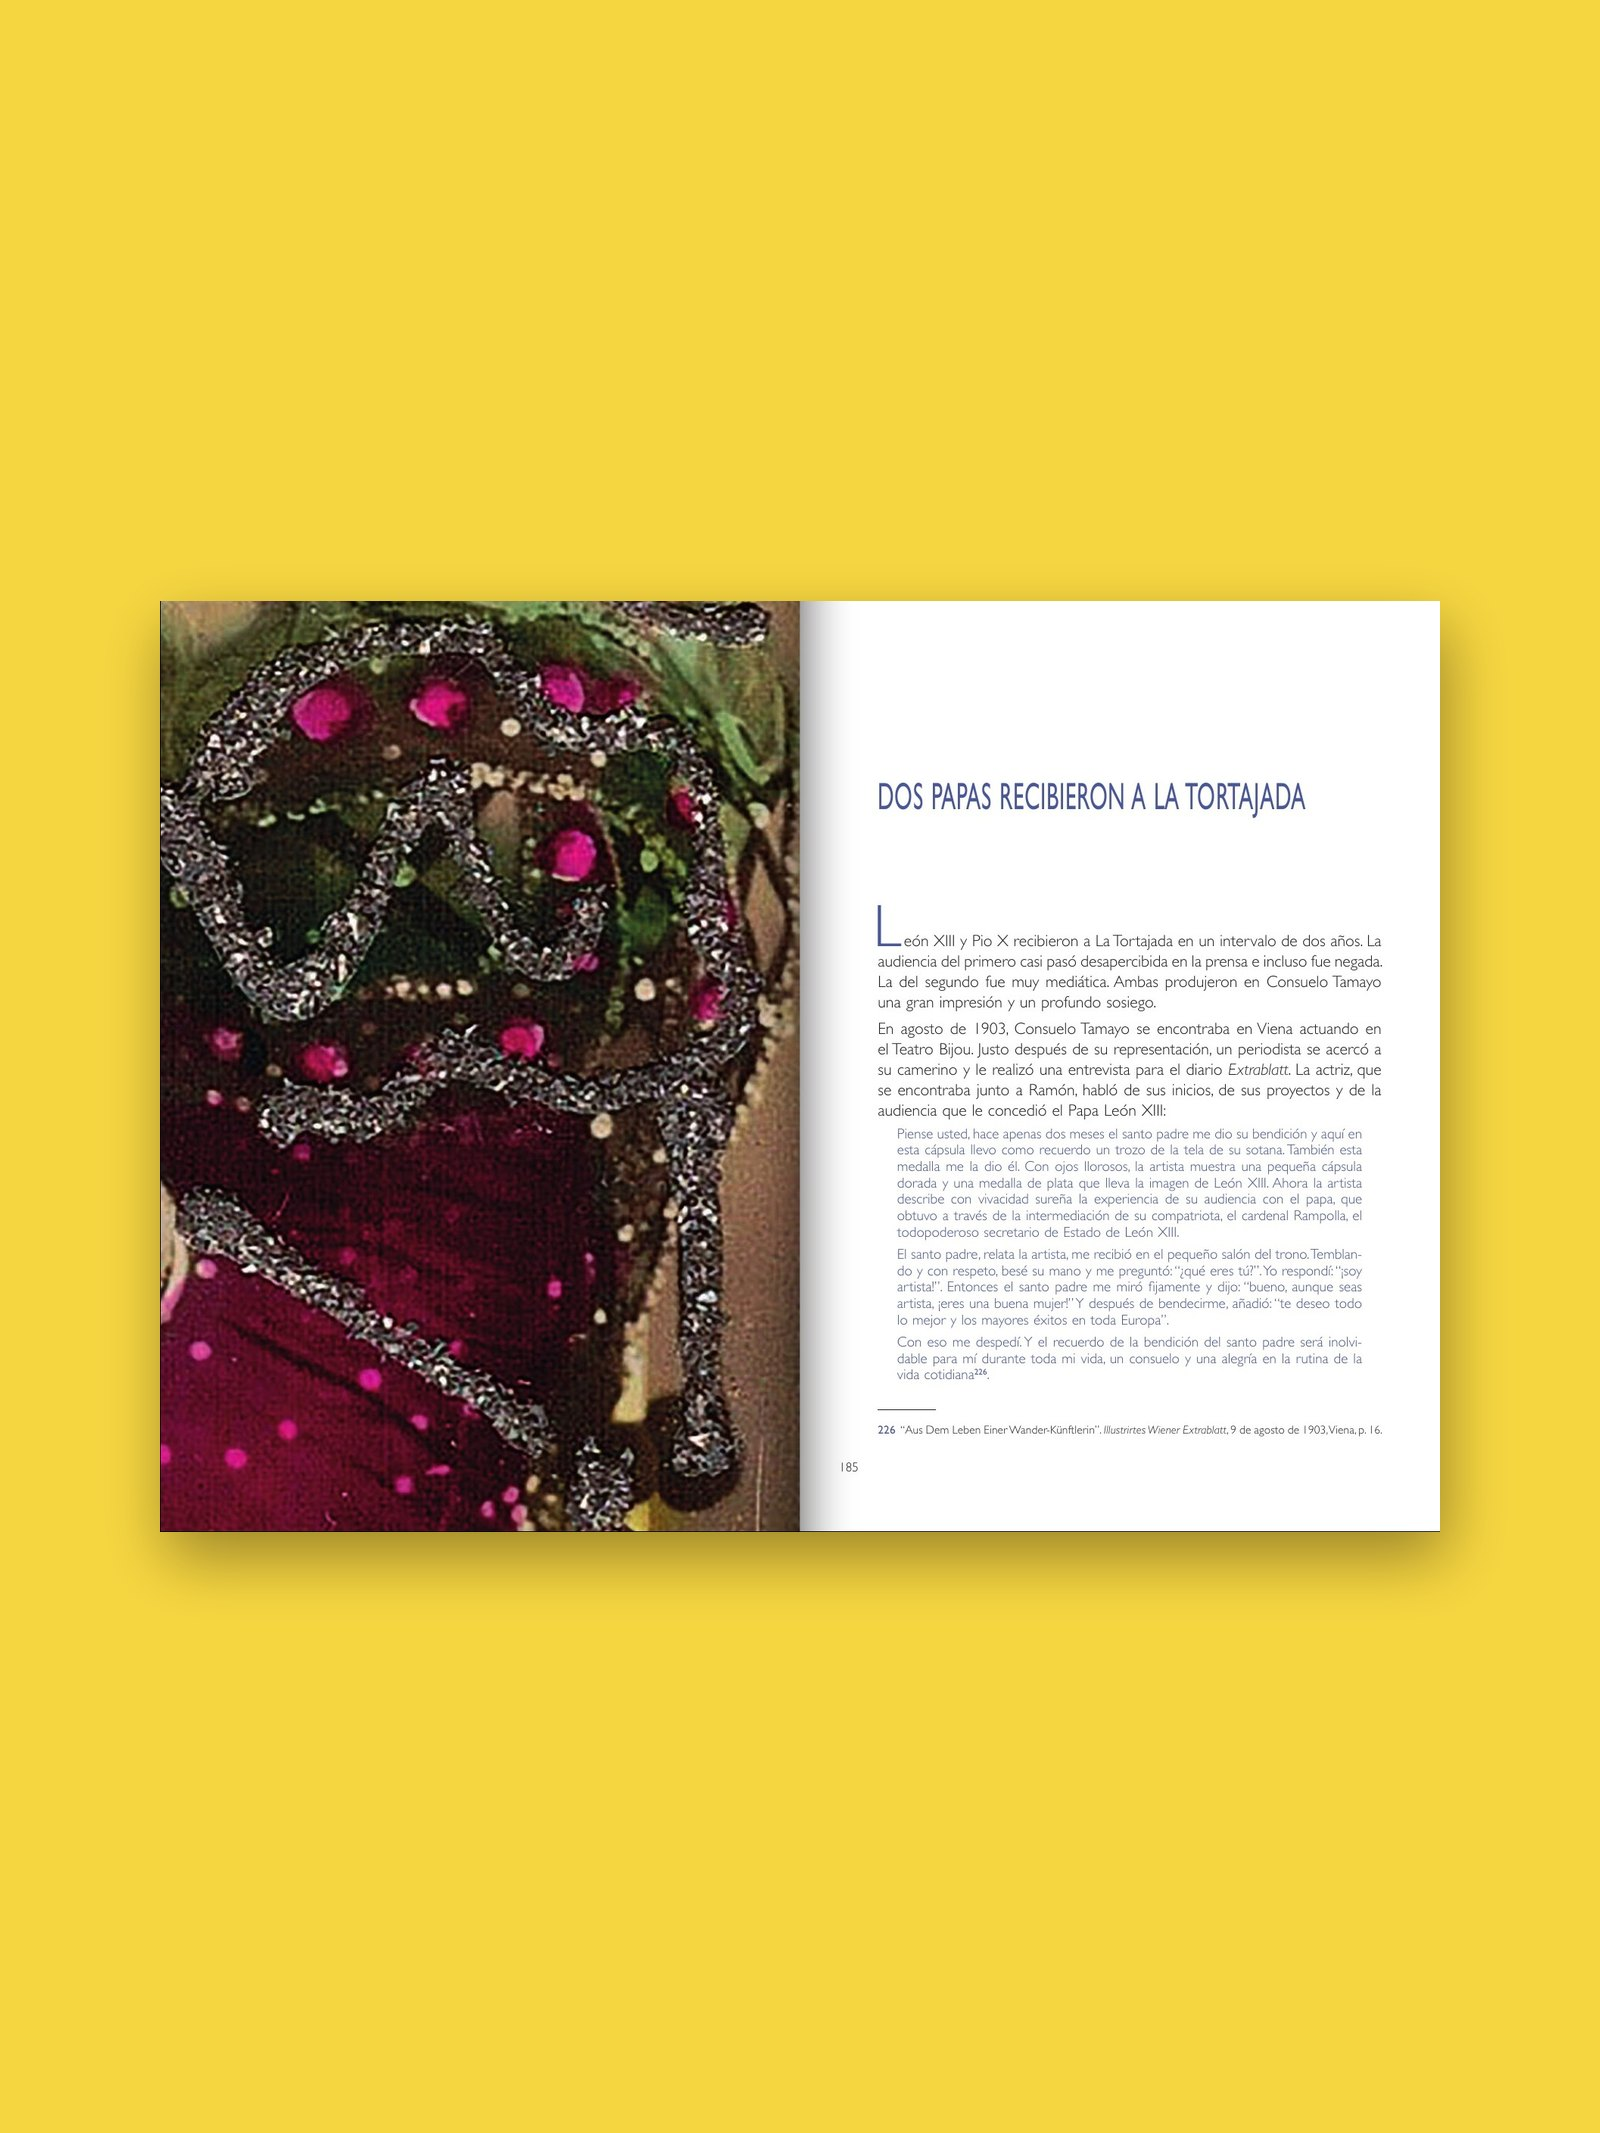
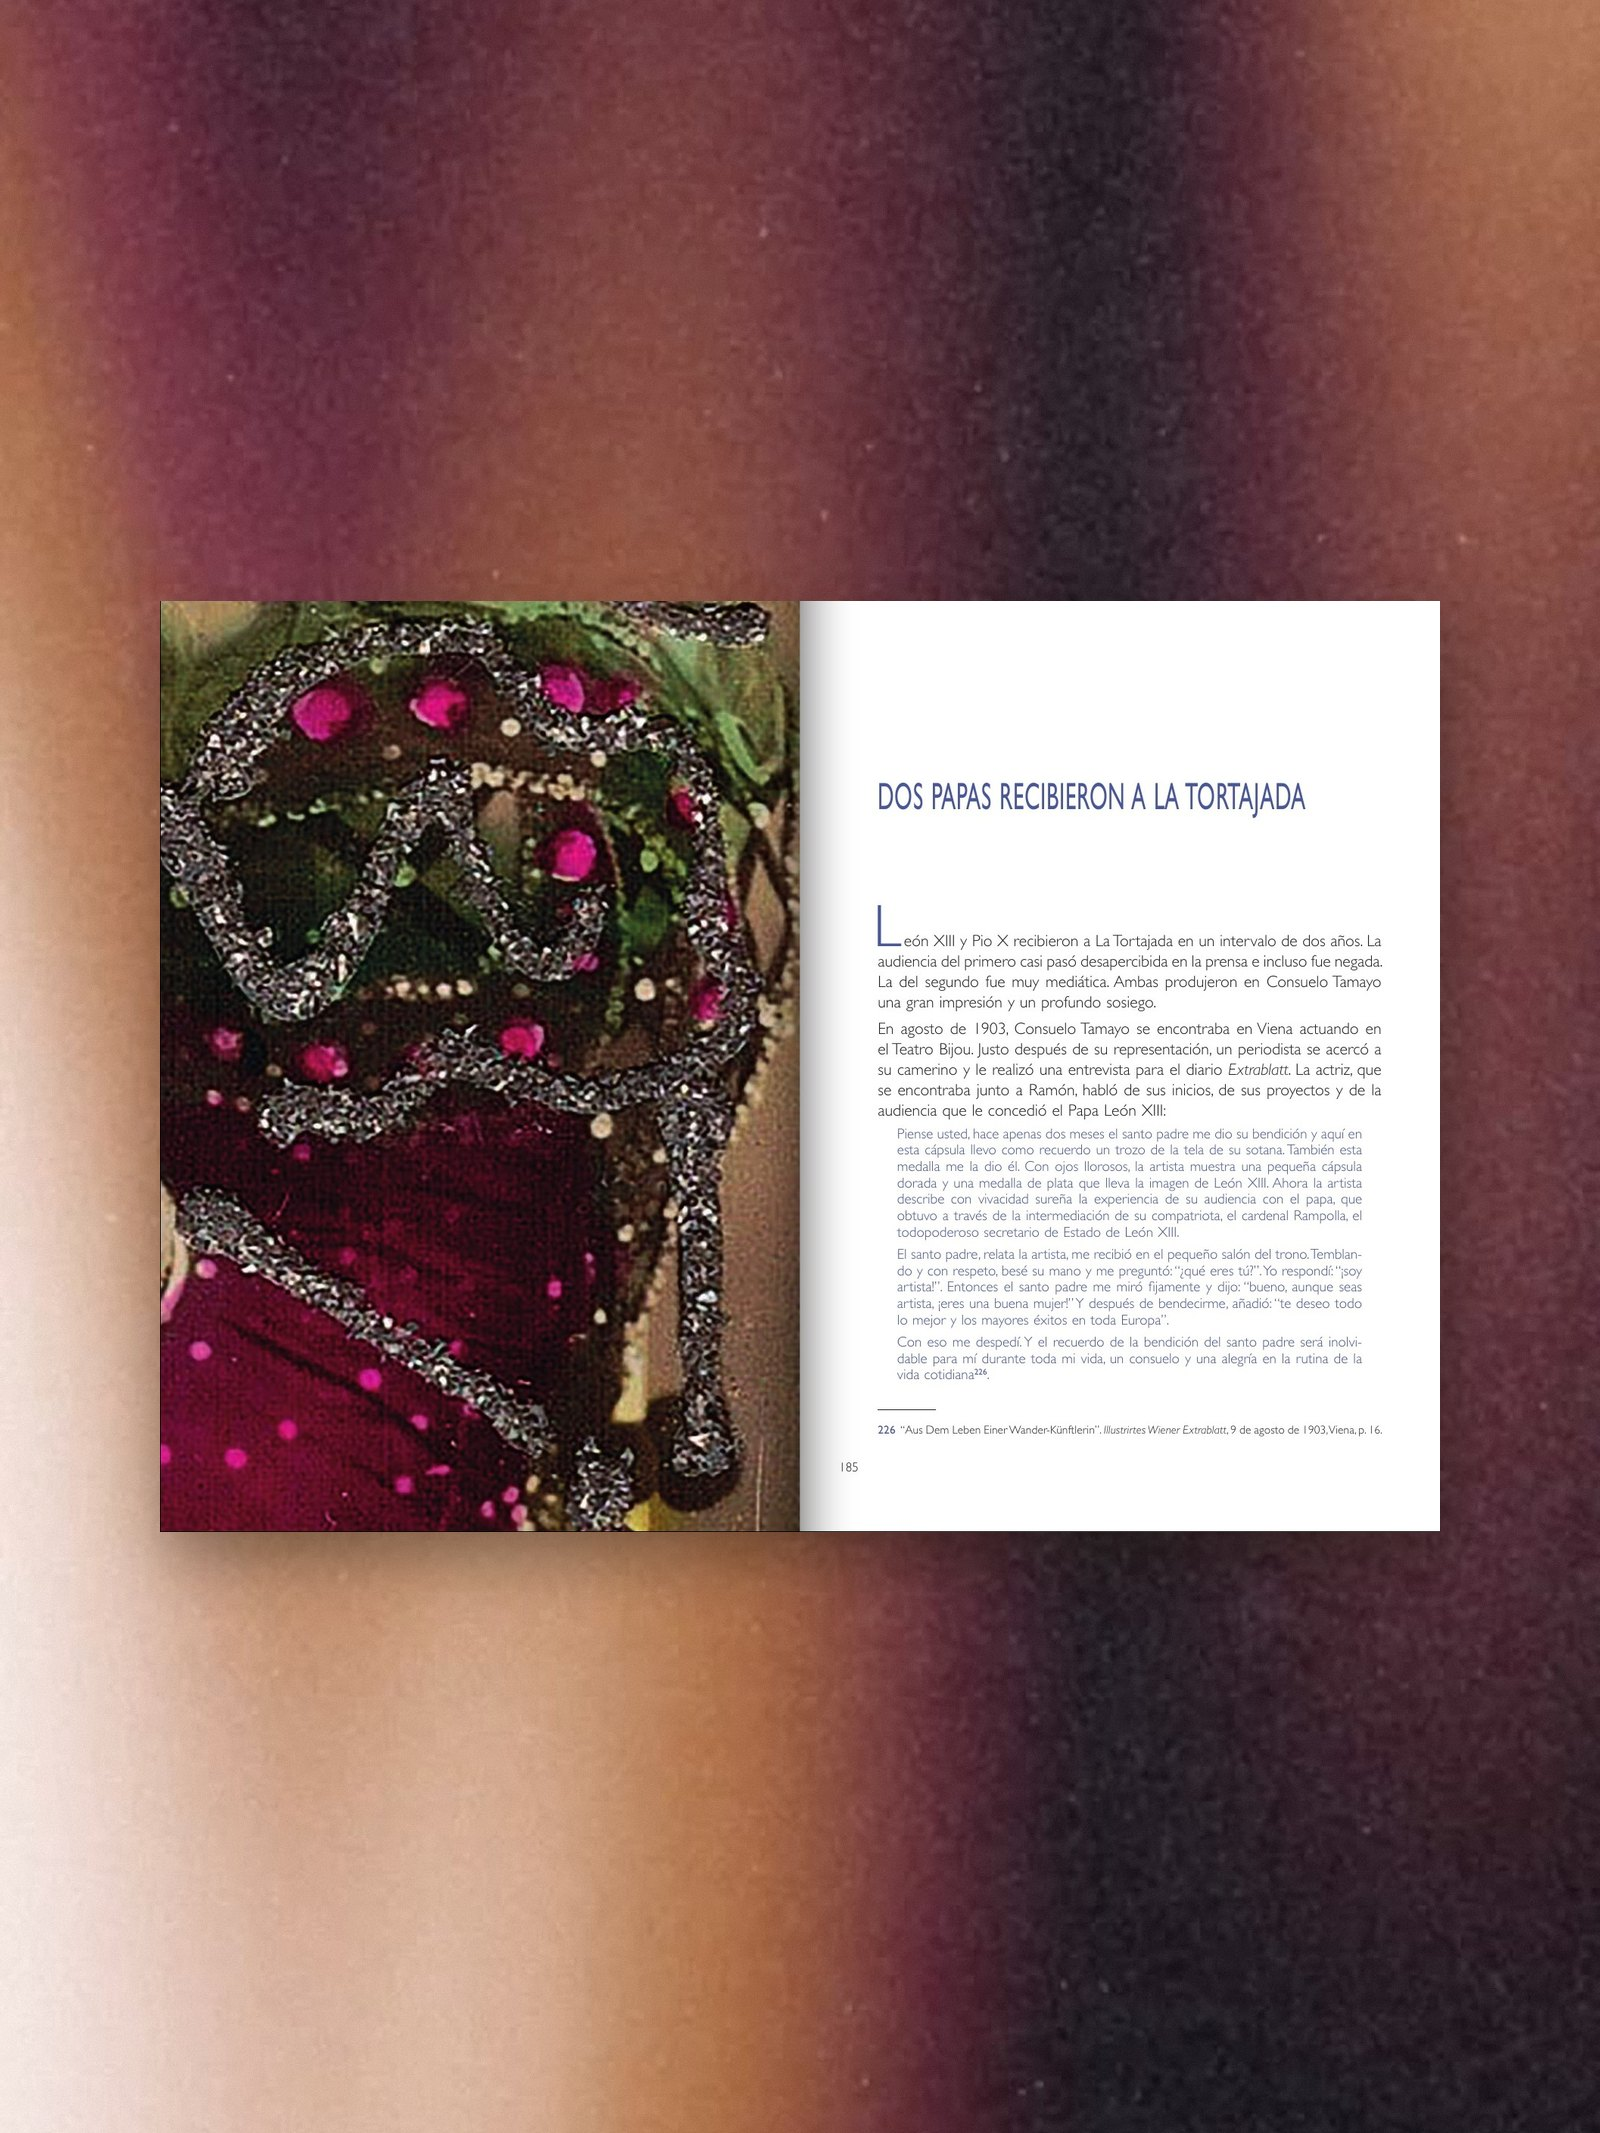
La Tortajada: fondos nuevos en las dos fotos interiores que estaban en amarillo
Claude-Session: https://claude.ai/code/session_014ZHEqD2MNxqjAg6cJYzQom

diff --git a/web/scripts/montaje.py b/web/scripts/montaje.py
@@ -45,8 +45,8 @@ CATALOGOS = {
     # las fotos 1 a 3 salen de otro montaje; aquí se añaden desde la 4 (None = amarillo liso, sin fondo todavía)
     "tortajada": ("01-la-tortajada", "la-tortajada-dobles", None, [
         ("5e750332-124f-4079-a8be-7d5a2a962622", ["m1", "m2"]),
-        (None, ["m3"]),
-        (None, ["m7", "m5", "m6"]),
+        ("a3a68449-3456-46bf-8aec-f2d9c589f4ec", ["m3"]),
+        ("4fe16a7f-f3c3-4856-a9c0-c9c7849fd4cc", ["m7", "m5", "m6"]),
     ], 4),
     # En noir: las fotos 1 a 4 salen de en_noir_fondos.py; aquí se añaden desde la 5
     "en-noir": ("05-pedro-zamora-en-noir", "en-noir-dobles", PDF_NOIR, [
